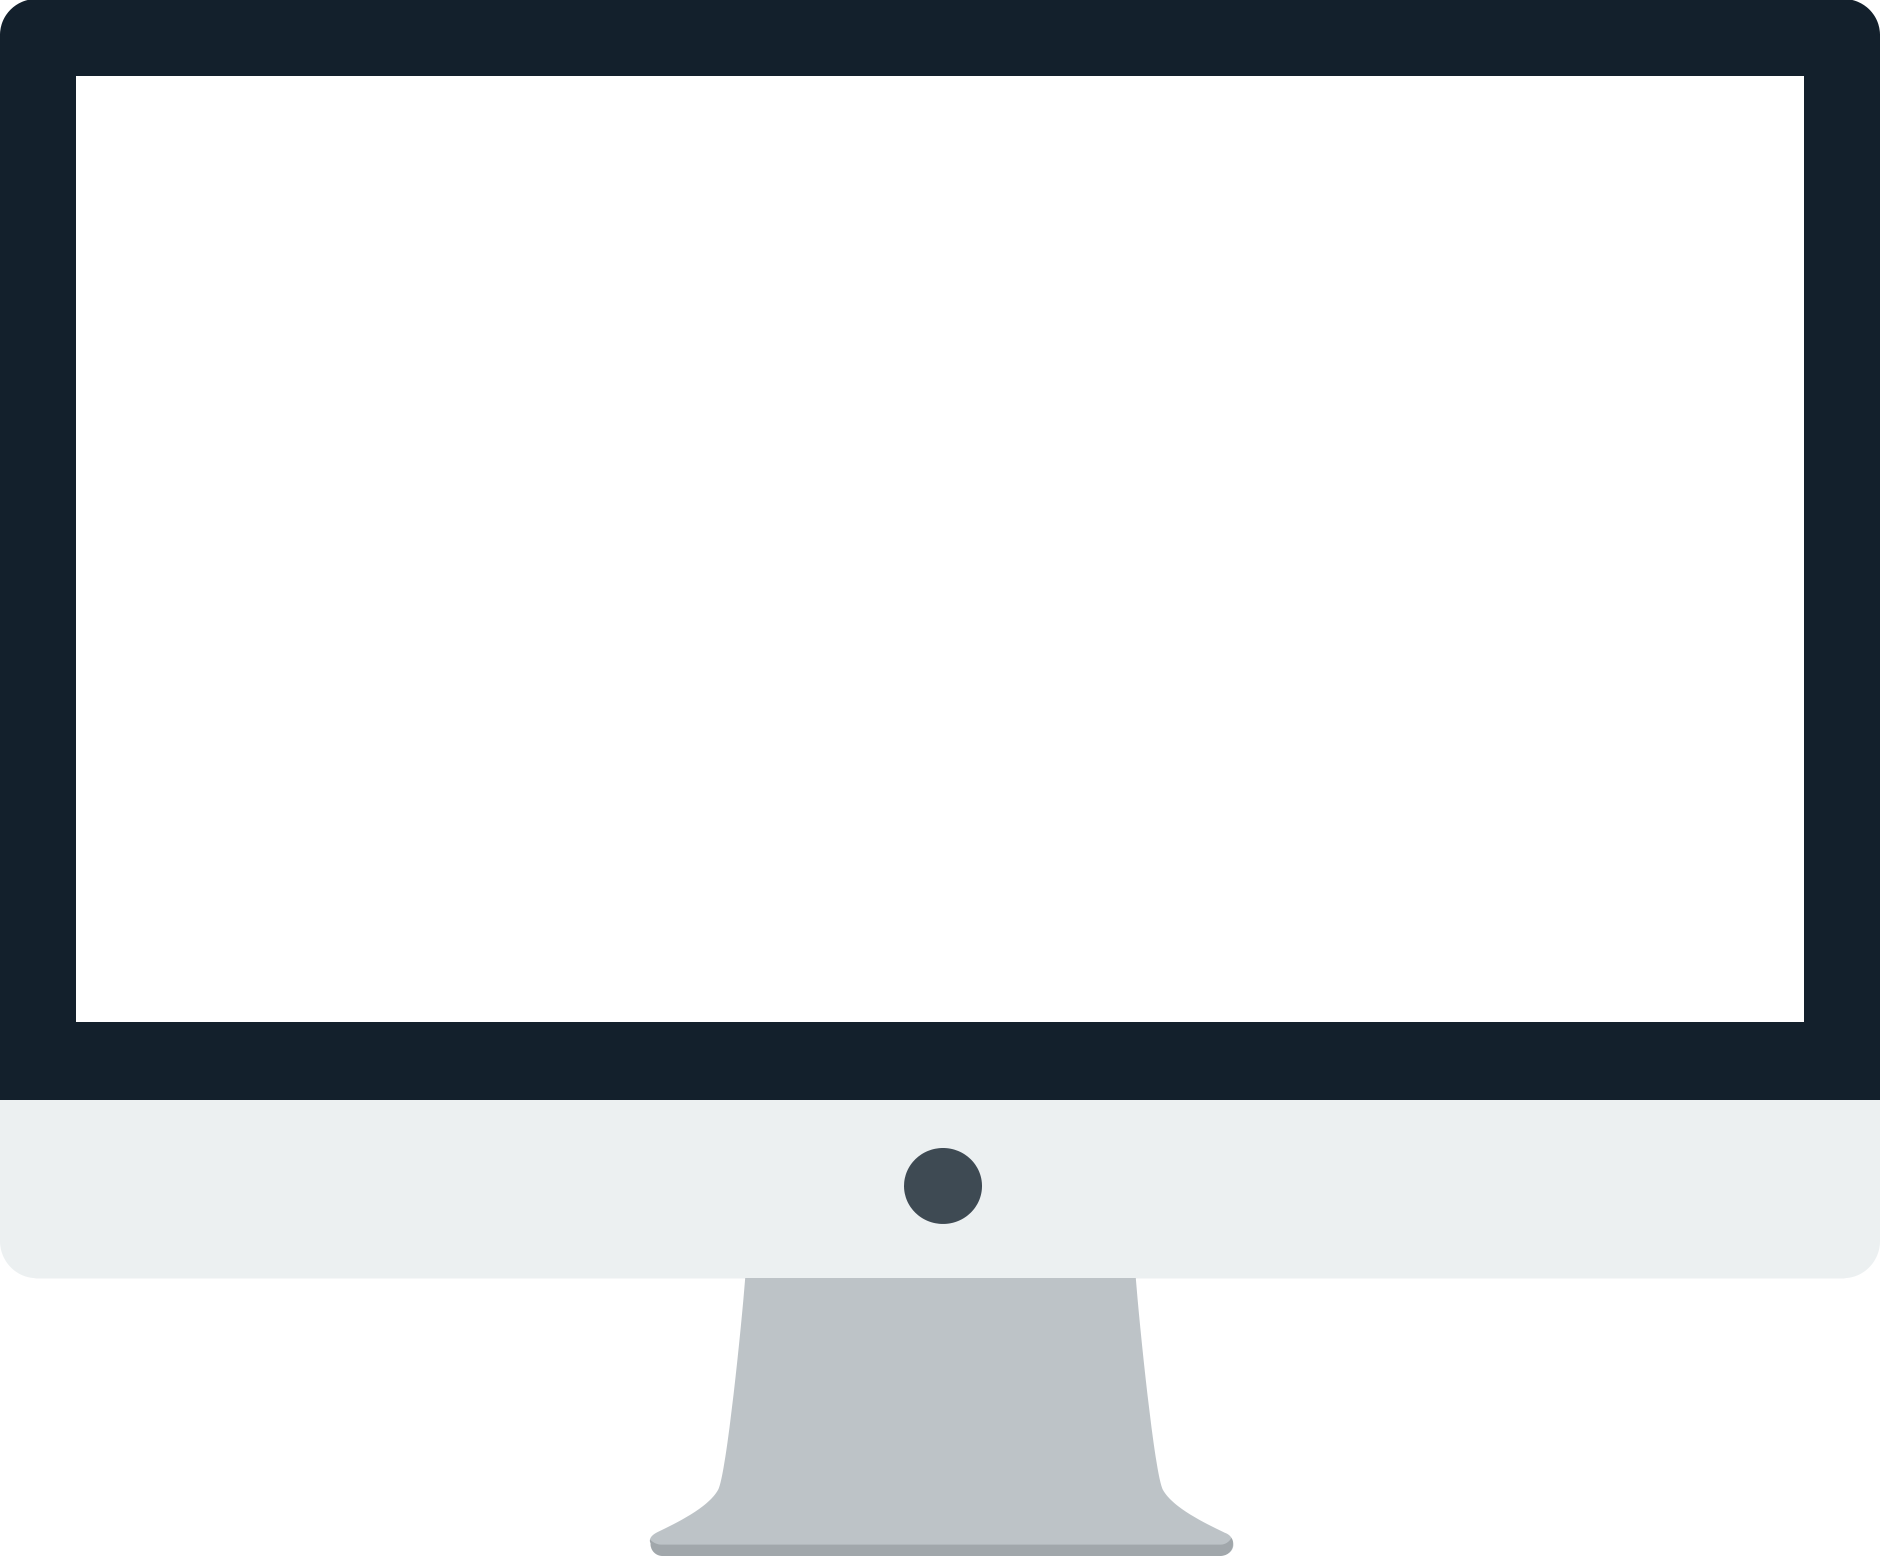
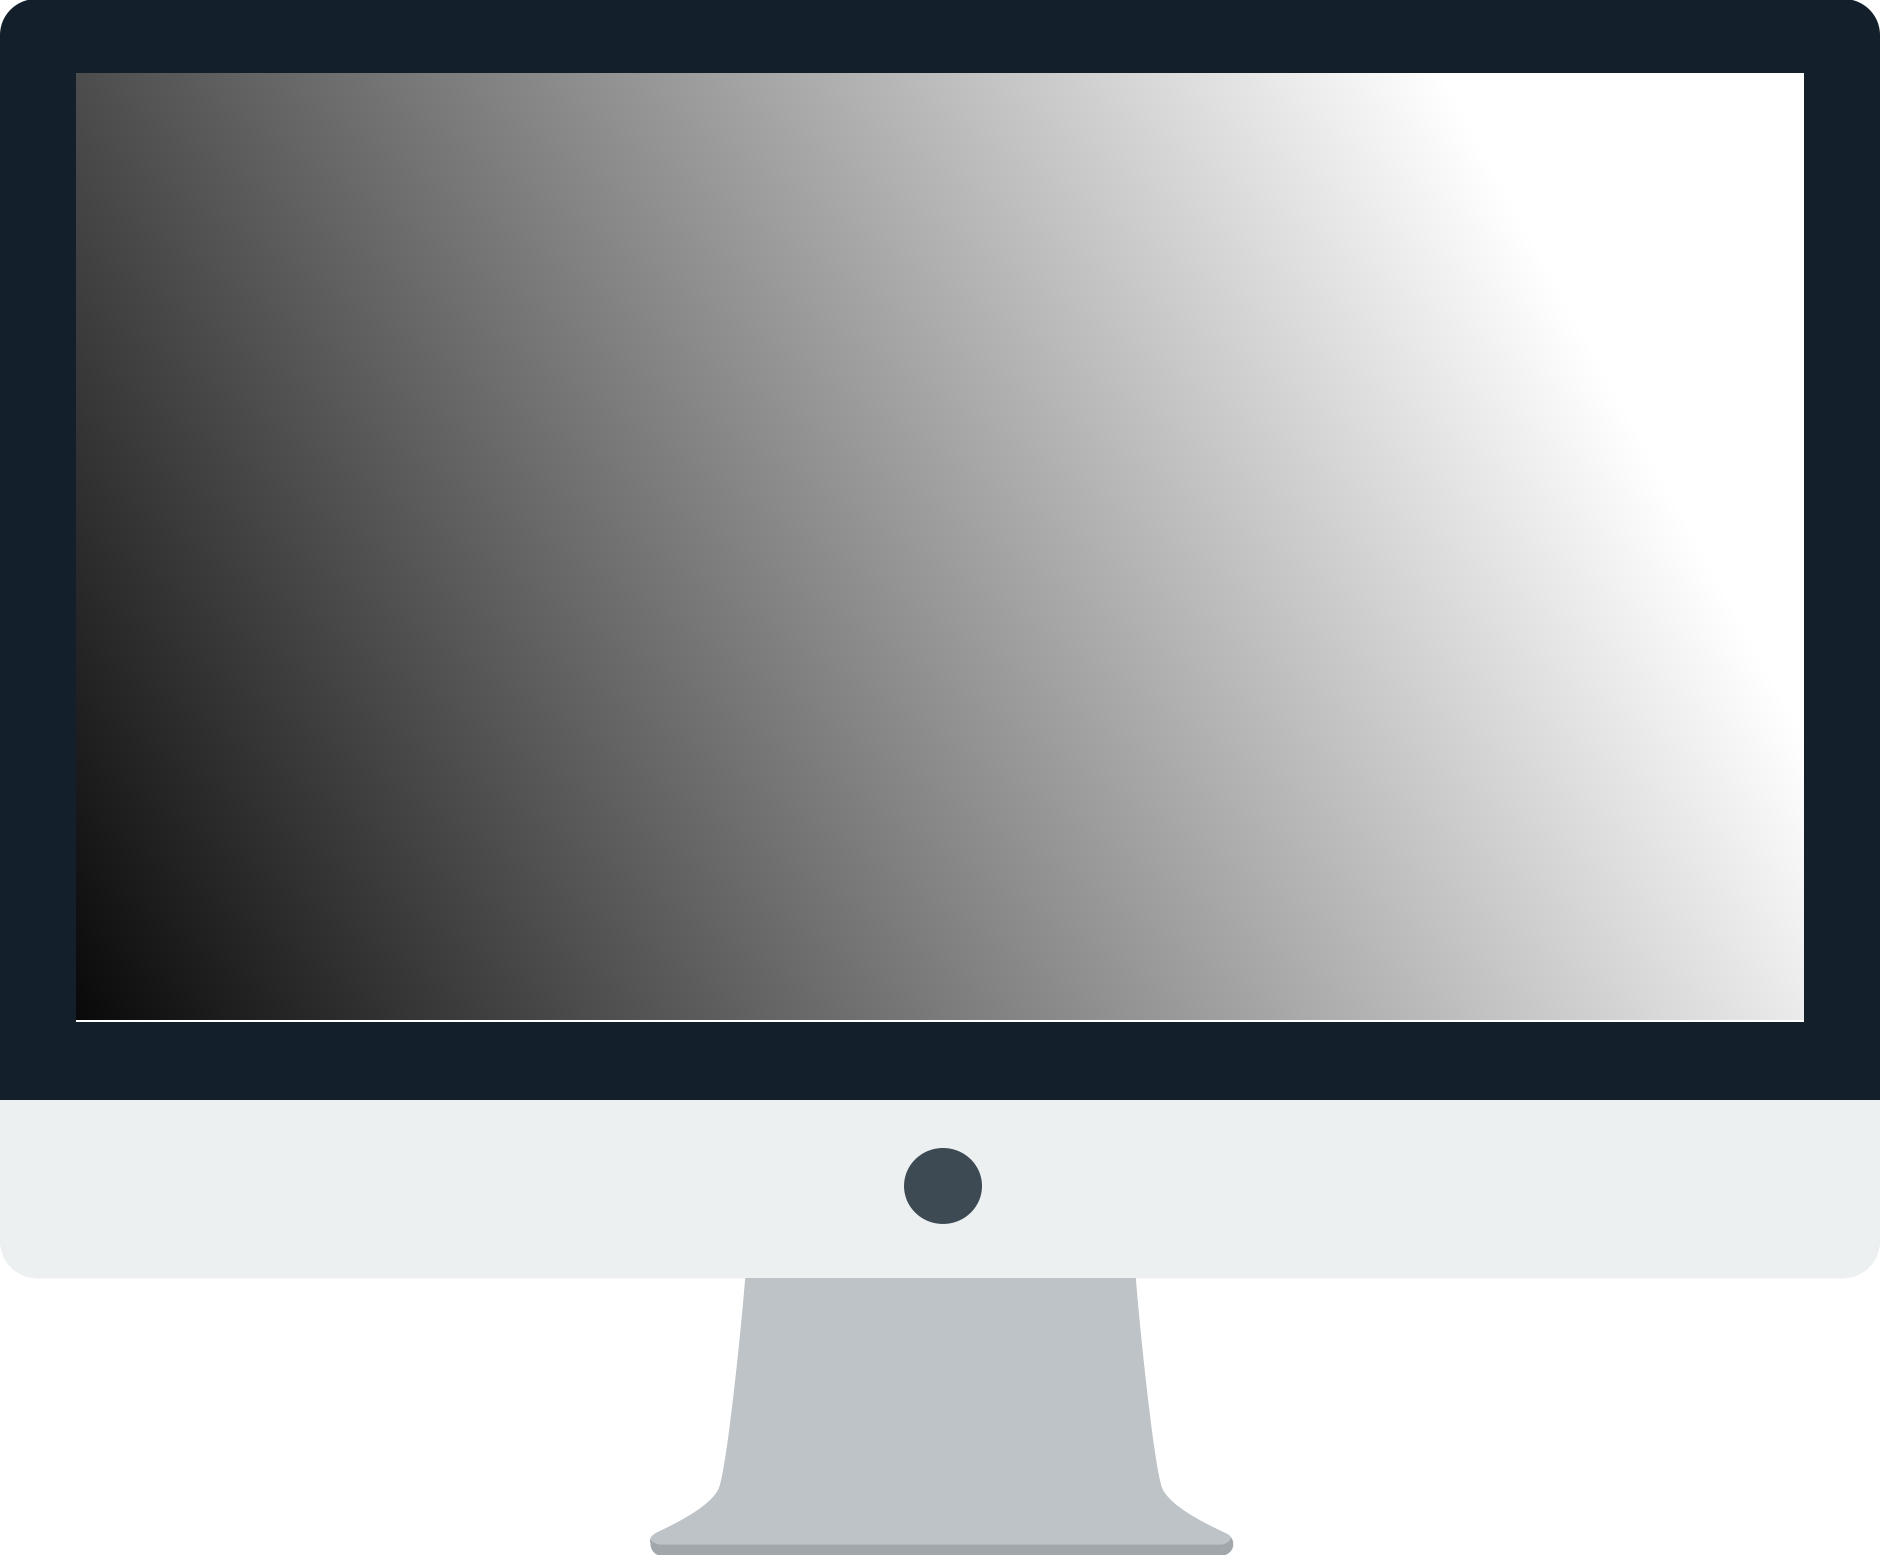
added landing header and terminal style

diff --git a/css/salty.css b/css/salty.css
@@ -321,6 +321,7 @@ user-select: none;
   2.) Icons CSS
 ====================================================
 */
+
 @font-face {
   font-family: 'Glyphicons Halflings';
   src: url('../fonts/glyphicons-halflings-regular.eot');
@@ -4722,6 +4723,17 @@ fieldset[disabled] .btn-success.active {
   background-color: #5bc0de;
   border-color: #46b8da;
 }
+.btn-dark {
+  color: #ffffff;
+  background-color: #4C5C6E;
+  border-color: #5F738B;
+}
+.btn-dark:hover, .btn-dark:active, .btn-dark:focus {
+  color: #fff;
+  background-color: #56677B; 
+  outline: none;
+}
+
 .btn-info:hover,
 .btn-info:focus,
 .btn-info.focus,
@@ -13949,6 +13961,135 @@ a.guest-on i {
   right: 100px;
   color: #1abc9c
 }
+.iterm {
+  width: 600px;
+  margin: 10px auto;
+}
+.iterm--header {
+  display: block;
+  height: 23px;
+  background: -webkit-linear-gradient(top, #f7f7f7 0%,#cfcfcf 5%,#aaaaaa 100%);
+  line-height: 23px;
+  border-top-right-radius: 5px;
+  border-top-left-radius: 5px;
+  position: relative;
+}
+.iterm--window-icons {
+  position: absolute;
+  top: 1px;
+  left: 10px;
+}
+.iterm--window-icons .yellow,
+.iterm--window-icons .green,
+.iterm--window-icons .red {
+  width: 10px;
+  height: 10px;
+  border-radius: 50%; 
+  display: inline-block;
+  margin: 0 2px;
+  -webkit-box-shadow: 0 0 2px #000;
+          box-shadow: 0 0 2px #000;
+}
+.iterm--window-icons .red {
+  background: #ea2803; /* Old browsers */
+  background: -moz-radial-gradient(center, ellipse cover, #ea2803 27%, #ea2803 43%, #ea2803 43%, #e86c57 66%, #e86c57 66%, #e86c57 87%, #f3c5bd 95%, #ff6600 96%, #ff6600 96%, #f3c5bd 96%, #c72200 100%); /* FF3.6+ */
+  background: -webkit-gradient(radial, center center, 0px, center center, 100%, color-stop(27%,#ea2803), color-stop(43%,#ea2803), color-stop(43%,#ea2803), color-stop(66%,#e86c57), color-stop(66%,#e86c57), color-stop(87%,#e86c57), color-stop(95%,#f3c5bd), color-stop(96%,#ff6600), color-stop(96%,#ff6600), color-stop(96%,#f3c5bd), color-stop(100%,#c72200)); /* Chrome,Safari4+ */
+  background: -webkit-radial-gradient(center, ellipse cover, #ea2803 27%,#ea2803 43%,#ea2803 43%,#e86c57 66%,#e86c57 66%,#e86c57 87%,#f3c5bd 95%,#ff6600 96%,#ff6600 96%,#f3c5bd 96%,#c72200 100%); /* Chrome10+,Safari5.1+ */
+  background: -o-radial-gradient(center, ellipse cover, #ea2803 27%,#ea2803 43%,#ea2803 43%,#e86c57 66%,#e86c57 66%,#e86c57 87%,#f3c5bd 95%,#ff6600 96%,#ff6600 96%,#f3c5bd 96%,#c72200 100%); /* Opera 12+ */
+  background: -ms-radial-gradient(center, ellipse cover, #ea2803 27%,#ea2803 43%,#ea2803 43%,#e86c57 66%,#e86c57 66%,#e86c57 87%,#f3c5bd 95%,#ff6600 96%,#ff6600 96%,#f3c5bd 96%,#c72200 100%); /* IE10+ */
+  background: radial-gradient(ellipse at center, #ea2803 27%,#ea2803 43%,#ea2803 43%,#e86c57 66%,#e86c57 66%,#e86c57 87%,#f3c5bd 95%,#ff6600 96%,#ff6600 96%,#f3c5bd 96%,#c72200 100%); /* W3C */
+  filter: progid:DXImageTransform.Microsoft.gradient( startColorstr='#ea2803', endColorstr='#c72200',GradientType=1 ); /* IE6-9 fallback on horizontal gradient */
+}
+.iterm--window-icons .yellow {
+  background: #ffd65e; /* Old browsers */
+  background: -moz-radial-gradient(center, ellipse cover, #ffd65e 25%, #febf04 100%); /* FF3.6+ */
+  background: -webkit-gradient(radial, center center, 0px, center center, 100%, color-stop(25%,#ffd65e), color-stop(100%,#febf04)); /* Chrome,Safari4+ */
+  background: -webkit-radial-gradient(center, ellipse cover, #ffd65e 25%,#febf04 100%); /* Chrome10+,Safari5.1+ */
+  background: -o-radial-gradient(center, ellipse cover, #ffd65e 25%,#febf04 100%); /* Opera 12+ */
+  background: -ms-radial-gradient(center, ellipse cover, #ffd65e 25%,#febf04 100%); /* IE10+ */
+  background: radial-gradient(ellipse at center, #ffd65e 25%,#febf04 100%); /* W3C */
+  filter: progid:DXImageTransform.Microsoft.gradient( startColorstr='#ffd65e', endColorstr='#febf04',GradientType=1 ); /* IE6-9 fallback on horizontal gradient */
+}
+.iterm--window-icons .green {
+  background: #b4e391; /* Old browsers */
+  background: -moz-radial-gradient(center, ellipse cover, #b4e391 0%, #61c419 91%, #b4e391 100%); /* FF3.6+ */
+  background: -webkit-gradient(radial, center center, 0px, center center, 100%, color-stop(0%,#b4e391), color-stop(91%,#61c419), color-stop(100%,#b4e391)); /* Chrome,Safari4+ */
+  background: -webkit-radial-gradient(center, ellipse cover, #b4e391 0%,#61c419 91%,#b4e391 100%); /* Chrome10+,Safari5.1+ */
+  background: -o-radial-gradient(center, ellipse cover, #b4e391 0%,#61c419 91%,#b4e391 100%); /* Opera 12+ */
+  background: -ms-radial-gradient(center, ellipse cover, #b4e391 0%,#61c419 91%,#b4e391 100%); /* IE10+ */
+  background: radial-gradient(ellipse at center, #b4e391 0%,#61c419 91%,#b4e391 100%); /* W3C */
+  filter: progid:DXImageTransform.Microsoft.gradient( startColorstr='#b4e391', endColorstr='#b4e391',GradientType=1 ); /* IE6-9 fallback on horizontal gradient */
+}
+.iterm--shell {
+  font-family:  Consolas, "Liberation Mono", Courier, monospace;
+  background-color: #3d3d3d;
+  display: block;
+  min-height: 50px;
+  border-bottom-right-radius: 5px;
+  border-bottom-left-radius: 5px;
+  padding: 15px;
+  overflow: hidden;
+  font-size: 17px;
+  line-height: 23px;
+  text-align: left;
+  color: #fff;
+}
+.iterm--shell > p {
+  white-space: nowrap;
+}
+.iterm--shell > p > span:before {
+  content: '$';
+  color: #FFE100;
+  padding-right: 10px;
+}
+
+.landing-page {
+  background: rgb(8,189,221); /* Old browsers */
+  background: -moz-linear-gradient(-45deg,  rgba(8,189,221,1) 0%, rgba(31,143,224,1) 45%, rgba(125,185,232,1) 100%); /* FF3.6+ */
+  background: -webkit-gradient(linear, left top, right bottom, color-stop(0%,rgba(8,189,221,1)), color-stop(45%,rgba(31,143,224,1)), color-stop(100%,rgba(125,185,232,1))); /* Chrome,Safari4+ */
+  background: -webkit-linear-gradient(-45deg,  rgba(8,189,221,1) 0%,rgba(31,143,224,1) 45%,rgba(125,185,232,1) 100%); /* Chrome10+,Safari5.1+ */
+  background: -o-linear-gradient(-45deg,  rgba(8,189,221,1) 0%,rgba(31,143,224,1) 45%,rgba(125,185,232,1) 100%); /* Opera 11.10+ */
+  background: -ms-linear-gradient(-45deg,  rgba(8,189,221,1) 0%,rgba(31,143,224,1) 45%,rgba(125,185,232,1) 100%); /* IE10+ */
+  background: linear-gradient(135deg,  rgba(8,189,221,1) 0%,rgba(31,143,224,1) 45%,rgba(125,185,232,1) 100%); /* W3C */
+  filter: progid:DXImageTransform.Microsoft.gradient( startColorstr='#08bddd', endColorstr='#7db9e8',GradientType=1 ); /* IE6-9 fallback on horizontal gradient */
+  margin: -20px auto 50px;
+  padding: 20px;
+  height: 400px;
+  width: 100%;
+  display: inline-block;
+}
+.landing-page > span {
+  display: block;
+  height: 110%;
+  margin: 30px auto;
+  background-image: url(../img/mobile.png), url(../img/tab.png), url(../img/imac.png), url(../img/laptop.png);
+  background-size: 75px, 150px, 300px, 360px;
+  background-repeat: no-repeat;
+  background-position: 29% 90%, 44% 92%, 17% 77%, 75% 92%;
+  max-width: 1000px;
+  min-width: 725px;
+}
+.landing-page > span > h1 {
+  text-align: center;
+  font: 900 114px/100px "Helvetica Neue", Helvetica, Arial, sans-serif;
+  color: #1abc9c;
+  text-shadow:
+    3px 3px 0 #000,
+    -1px -1px 0 #000,  
+    1px -1px 0 #000,
+    -1px 1px 0 #000,
+    1px 1px 0 #000;
+  letter-spacing: 2.4444px;
+}
+.navbar-slider > header .btn-dark {
+  font-size: 16px;
+  float: right;
+  margin: 11px;
+  outline: none!important;
+}
+
+
+
 
 
 

diff --git a/docs/index.html b/docs/index.html
@@ -11,6 +11,7 @@
   <meta property="og:title" content="salty-ui front-end framework" />
   <meta property="og:type" content="website" />
   <meta property="og:url" content="https://github.com/JaredCowan/salty-ui" />
+  <link href='http://fonts.googleapis.com/css?family=Lato' rel='stylesheet' type='text/css'>
   <link rel="canonical" href="https://github.com/JaredCowan/salty-ui" />
   <link rel="shortlink" href="https://github.com/JaredCowan/salty-ui" />
   <link rel="stylesheet" type="text/css" href="../css/salty.css">
@@ -24,6 +25,11 @@
             <div data-original-title="Open Menu" data-placement="right" class="fa i-white fa-bars tooltips"></div>
           </div>
           <a href="index.html" class="logo" >Salty<span>-ui</span></a>
+          <a href="#download">
+          <button type="button" class="btn btn-dark" href="#download">
+            Download
+          </button>
+          </a>
         </header> <!--header end-->
         <aside> 
           <!--sidebar start-->
@@ -139,6 +145,31 @@
           </div> <!-- sidebar end-->
         </aside> 
       </nav> <!-- navbar-slider end-->
+
+      <div class="jumbotron landing-page">
+        <span>
+          <h1>Salty-UI</h1>
+        </span>
+      </div>
+
+      <div class="iterm" id="download">
+        <div class="iterm--header">
+          <span class="iterm--window-icons">
+            <span class="red"></span>
+            <span class="yellow"></span>
+            <span class="green"></span>
+          </span>
+        </div>
+        <div class="iterm--shell">
+          <p>
+            <span>git@github.com:JaredCowan/salty-ui.git</span>
+          </p>
+        </div>
+      </div>
+
+
+
+
       
       <div class="code">
         <div class="code-window">

diff --git a/js/salty.js b/js/salty.js
@@ -4640,4 +4640,27 @@ $(function($) {
     aftr_copy.fadeIn(500);
   });
 
+
+  // scroll to page section on click
+  // corrects the height with the fixed slider-menu
+  $( '.navbar-slider header a' ).on('click', function() {
+      var el      = $( this ).attr( 'href' )
+        , el_pos  = $( el ).offset().top
+        , win_pos = $( window ).scrollTop()
+        , o       = $( el ).offset().top - win_pos - $( ".thriii__landing--nav" ).innerHeight()
+        , current = window.location.hash
+        , el_scroll_to;
+
+      if ( el === "#sales-orders" ) {
+          el_scroll_to = el_pos;
+      } else {
+          el_scroll_to = el_pos - 100;
+      }
+
+      $( 'html, body' ).animate({
+          scrollTop: el_scroll_to
+        }, 800
+      )
+  }) //  END scroll to section on click
+
 }( jQuery ));

diff --git a/README.md b/README.md
@@ -1,6 +1,6 @@
 # [Salty-UI](http://salty-ui.com)
 
-Salty-UI is a flat and clean design front-end framework that offers templates and widgets with easy customization in mind. Built with the powerful front-end framework everyone knows and loves, <a href="https://github.com/twbs/bootstrap">Bootstrap 3.3.1</a>. 
+Salty-UI is a flat and clean design front-end framework that offers templates and widgets with easy customization in mind. Built with the powerful front-end framework everyone knows and loves, [Bootstrap 3.3.1](https://github.com/twbs/bootstrap).
 
 View Salty-UI http://salty-ui.com
 
@@ -13,9 +13,5 @@ View Salty-UI http://salty-ui.com
 ## License
 
 
-[![Creative Commons License](https://i.creativecommons.org/l/by/4.0/88x31.png)](LICENSE)
-<span xmlns:dct="http://purl.org/dc/terms/" href="http://purl.org/dc/dcmitype/Text" property="dct:title" rel="dct:type">Salty-UI Code & Docs </span> licensed under [Creative Commons](http://creativecommons.org/licenses/by/4.0/).
+Salty-UI is released under [MIT license](License)
 
-[Bootstrap](https://github.com/twbs/bootstrap) Code released under [the MIT license](https://github.com/twbs/bootstrap/blob/master/LICENSE).
-
-[Bootstrap](https://github.com/twbs/bootstrap) Docs released under [Creative Commons](https://github.com/twbs/bootstrap/blob/master/docs/LICENSE)
